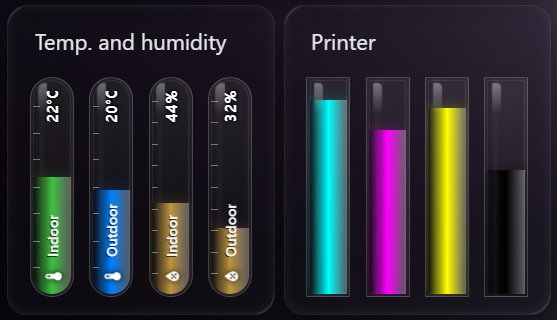
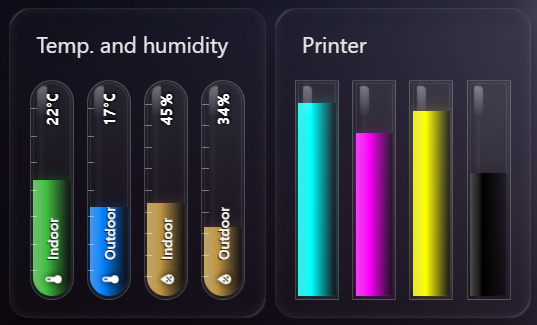
Update to v0.15

diff --git a/entity-glass-bar-card.js b/entity-glass-bar-card.js
@@ -1,5 +1,5 @@
 /**
- * EntityGlassBarCard - v0.14
+ * EntityGlassBarCard - v0.15
  * A vertical, glass-style bar card for Home Assistant
  * Features: Improved truncation math for value label clearance.
  */
@@ -67,26 +67,47 @@ class EntityGlassBarCard extends HTMLElement {
       const stateObj = hass.states[entityId];
       if (!stateObj) return;
 
-      const val = parseFloat(stateObj.state) || 0;
+      let val = parseFloat(stateObj.state);
+      
+      // If it's a light entity, use brightness attribute instead of state string ('on'/'off')
+      if (entityId.startsWith('light.')) {
+        const brightness = stateObj.attributes.brightness || 0;
+        val = Math.round((brightness / 255) * 100);
+      } else {
+        val = val || 0;
+      }
       const name = ent.name || stateObj.attributes.friendly_name || "Sensor";
       const deviceClass = stateObj.attributes.device_class;
-      const unit = stateObj.attributes.unit_of_measurement || "";
+      let unit = stateObj.attributes.unit_of_measurement || "";
+      if (entityId.startsWith('light.') && !unit) {
+        unit = "%";
+      }
       
       // 1. MIN/MAX AND PERCENTAGE
       let min = ent.min !== undefined ? ent.min : 0;
       let max = ent.max !== undefined ? ent.max : (deviceClass === 'temperature' ? 40 : 100);
-      let pct = Math.min(Math.max(((val - min) / (max - min)) * 100, 0), 100);
+      let pct = Math.min(Math.max(((val - min) / (max - min)) * 100, 0), 100); 
 
       // 2. COLOR LOGIC
       let color;
-      if (ent.color) color = ent.color;
+      
+      // Check for severity thresholds first
+      if (this._config.severity && Array.isArray(this._config.severity)) {
+        const sortedSeverity = [...this._config.severity].sort((a, b) => a.value - b.value);
+        const found = sortedSeverity.find(s => val <= s.value);
+        if (found) color = found.color;
+        else color = sortedSeverity[sortedSeverity.length - 1].color;
+      } 
+      // Individual or global fixed color
+      else if (ent.color) color = ent.color;
       else if (this._globalColor) color = this._globalColor;
+      // Default class-based logic
       else if (deviceClass === 'battery') {
         if (val >= 70) color = '64,191,64';
         else if (val >= 20) color = '191,149,64';
         else color = '191,64,64';
       } 
-      else if (deviceClass === 'humidity' || unit === '%') {
+      else if (deviceClass === 'humidity') {
         if (val >= 70) color = '0,102,204';
         else if (val >= 50) color = '64,191,64';
         else color = '191,149,64';
@@ -97,6 +118,11 @@ class EntityGlassBarCard extends HTMLElement {
         else if (val >= 20) color = '64,191,64';
         else color = '0,128,255';
       } 
+      else if (entityId.startsWith('light.')) {
+        if (val >= 80) color = '255, 255, 200';
+        else if (val >= 40) color = '255, 230, 80';
+        else color = '255, 180, 40';
+      }
       else color = 'var(--accent-color, 128,128,128)';
 
       // 3. ICON LOGIC
@@ -105,6 +131,7 @@ class EntityGlassBarCard extends HTMLElement {
         if (deviceClass === 'humidity') icon = "mdi:water-percent";
         else if (deviceClass === 'battery') icon = "mdi:battery";
         else if (deviceClass === 'temperature') icon = "mdi:thermometer";
+        else if (entityId.startsWith('light.')) icon = "mdi:lightbulb";
         else icon = "mdi:eye";
       }
 
@@ -119,7 +146,7 @@ class EntityGlassBarCard extends HTMLElement {
         for (let i = 1; i < tickCount; i++) {
           const posPx = Math.round((i * step / range) * totalInnerHeight);
           ticksHtml += `
-            <div style="position: absolute; left: 2px; width: 6px; 
+            <div style="position: absolute; left: 0px; width: 6px; 
                         bottom: ${posPx}px; 
                         border-bottom: 1px solid rgba(255,255,255,0.4); 
                         height: 0; z-index: 2; pointer-events: none;"></div>`;
@@ -156,7 +183,7 @@ class EntityGlassBarCard extends HTMLElement {
 
           <!-- Liquid / Fill Level -->
           <div style="position: absolute; bottom: 2px; left: 2px; right: 2px; height: calc(${pct}% - 4px); 
-                      background: linear-gradient(90deg, rgba(0,0,0,0.35) 0%, rgb(${color.startsWith('var') ? '' : color}) ${color.startsWith('var') ? color : ''} 50%, rgba(255,255,255,0.3) 100%); 
+                      background: linear-gradient(90deg, rgba(255,255,255, 0.7) -50%, rgb(${color.startsWith('var') ? '' : color}) ${color.startsWith('var') ? color : ''} 35%, rgba(0,0,0,0.35) 100%); 
                       border-radius: ${pct > 95 ? (pct - 90) * (innerRadius/10) : 0}px ${pct > 95 ? (pct - 90) * (innerRadius/10) : 0}px ${innerRadius}px ${innerRadius}px; 
                       transition: height 1.5s cubic-bezier(0.17, 0.67, 0.83, 0.67); 
                       box-shadow: 0 0 12px rgba(${color.startsWith('var') ? '255,255,255' : color}, 0.25); z-index: 1;">

diff --git a/readme.md b/readme.md
@@ -10,7 +10,7 @@ This card was originally created for personal use to achieve a specific, clean a
 
 ## ✨ Features
 *   **Glassmorphism Design:** Realistic glass effect with highlights, depth, and reflections.
-*   **Smart Colors:** Automatic color logic for `temperature`, `humidity`, and `battery` device classes.
+*   **Smart Colors:** Automatic color logic for `temperature`, `humidity`, `battery` and `light` device classes.
 *   **Vertical Space Saving:** Uses rotated labels and icons to maximize information density.
 *   **Precision Ticks:** Mathematically aligned measurement ticks.
 *   **Interactive:** Built-in tap-action to open the "More Info" dialog for each entity.
@@ -31,45 +31,79 @@ This card was originally created for personal use to achieve a specific, clean a
 ## 📋 Configuration Options
 
 
-| Option | Type | Default | Description |
+### Global Options
+
+| Name | Type | Default | Description |
 | :--- | :--- | :--- | :--- |
-| `title` | string | optional | The card title. |
-| `height` | number | 200 | Total height of the bar in pixels. |
-| `width` | number | 40 | Total width of the bar in pixels. |
-| `radius` | number | 20 | Corner radius of the tube (capsule effect). |
-| `color` | string | auto | Global bar color (RGB format, e.g., `255, 0, 0`). |
-| `show_icon` | boolean | true | Show or hide the sensor icon. |
-| `show_name` | boolean | true | Show or hide the entity name. |
-| `show_value` | boolean | true | Show or hide the current state value. |
-| `show_ticks` | boolean | true | Show or hide the measurement ticks. |
+| type | string | **Required** | `custom:entity-glass-bar-card` |
+| entities | list | **Required** | List of entities to display. |
+| title | string | optional | Title of the card. |
+| height | number | 200 | Total height of the bars in pixels. |
+| width | number | 40 | Width of each bar in pixels. |
+| radius | number | 20 | Border radius for the bars. |
+| color | string | null | Global RGB color (e.g., `255, 165, 0`) or CSS variable (e.g., `var(--primary-color)`). |
+| step | number | null | Global tick interval (defaults: 5 for temperature, 10 for others). |
+| severity | list | optional | Global dynamic color thresholds (see Severity section). |
+| show_ticks | boolean | true | Show or hide measurement ticks. |
+| show_name | boolean | true | Show or hide entity names. |
+| show_icon | boolean | true | Show or hide entity icons. |
+| show_value | boolean | true | Show or hide current values. |
 
-### Per-Entity Options
-You can also define specific options for each entity:
+### Entity Options
 
+| Name | Type | Default | Description |
+| :--- | :--- | :--- | :--- |
+| entity | string | **Required** | Entity ID. |
+| name | string | optional | Custom name for the entity. |
+| icon | string | optional | Custom icon. |
+| color | string | optional | Specific RGB color for this entity. |
+| min | number | 0 | Minimum value for the bar. |
+| max | number | 100 | Maximum value for the bar (Default: 40 for temperature). |
+| step | number | null | Custom tick interval for this specific entity. |
 
-| Option | Description |
-| :--- | :--- |
-| `name` | Override the friendly name. |
-| `color` | Override the color for this specific entity (RGB). |
-| `min` | Minimum value for the scale. |
-| `max` | Maximum value for the scale. |
+### Severity Options
+The `severity` option allows you to change the bar color based on its value. It can be defined globally.
+
+| Name | Type | Description |
+| :--- | :--- | :--- |
+| value | number | The threshold value (color applied if state is less than or equal to this). |
+| color | string | RGB color or CSS variable. |
 
 ---
 
 ## 💡 Example Usage
 
+### Basic Example
 ```yaml
 type: custom:entity-glass-bar-card
-title: Home Status
-height: 220
+title: "Battery Levels"
+entities:
+  - sensor.phone_battery
+  - sensor.tablet_battery
+```
+
+### Advanced Example with Severity and Steps
+```yaml
+type: custom:entity-glass-bar-card
+title: "Sensors"
+height: 250
+step: 10
+severity:
+  - value: 20
+    color: "255, 0, 0"
+  - value: 60
+    color: "255, 165, 0"
+  - value: 100
+    color: "76, 175, 80"
 entities:
   - entity: sensor.living_room_temp
-    name: Indoor
-  - entity: sensor.outdoor_temp
-    name: Outdoor
-    color: "0, 128, 255"
-  - entity: sensor.phone_battery
-    name: Phone
+    name: "Temp"
+    max: 40
+    step: 5
+  - entity: light.living_room_main
+    name: "Main Light"
+  - entity: sensor.humidity
+    name: "Humidity"
 ```
 
 ---
